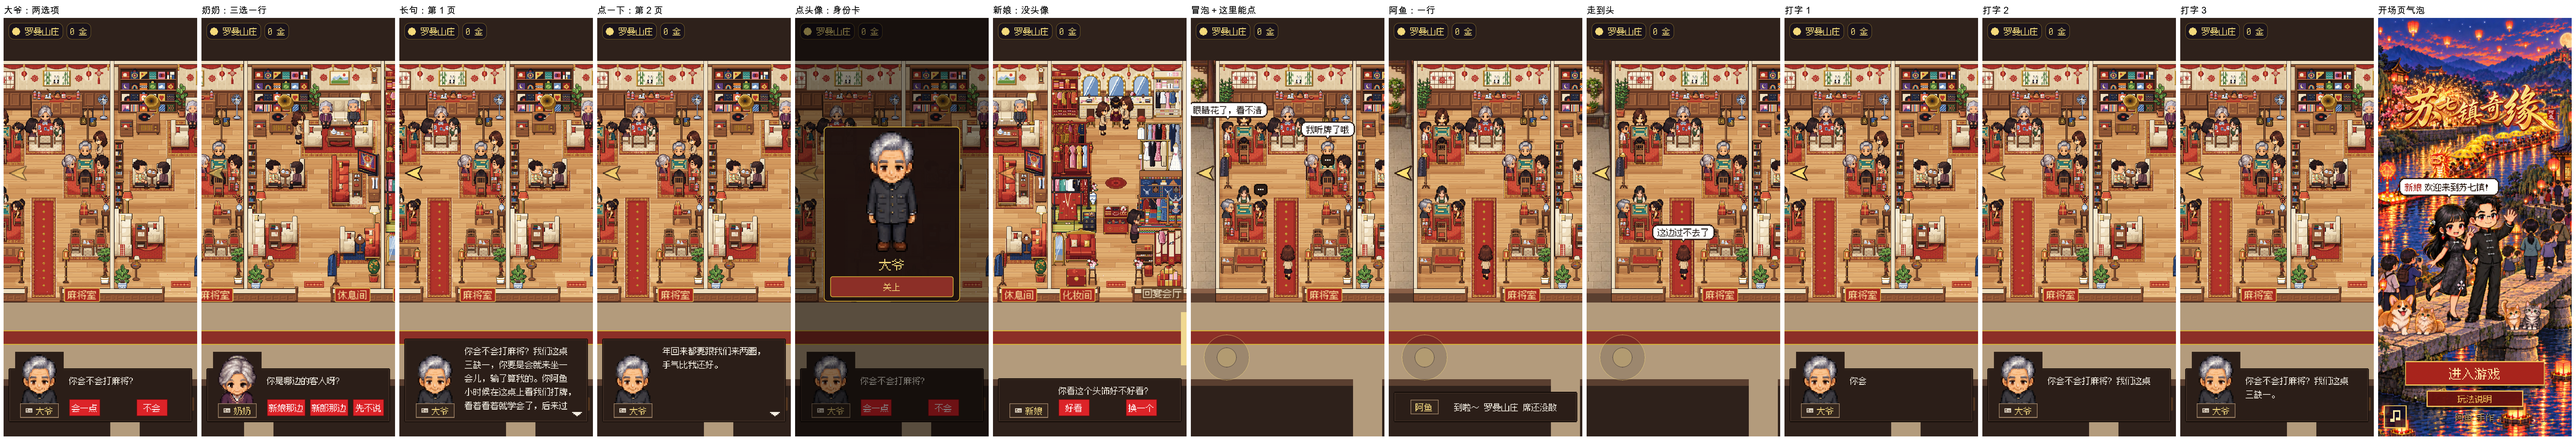
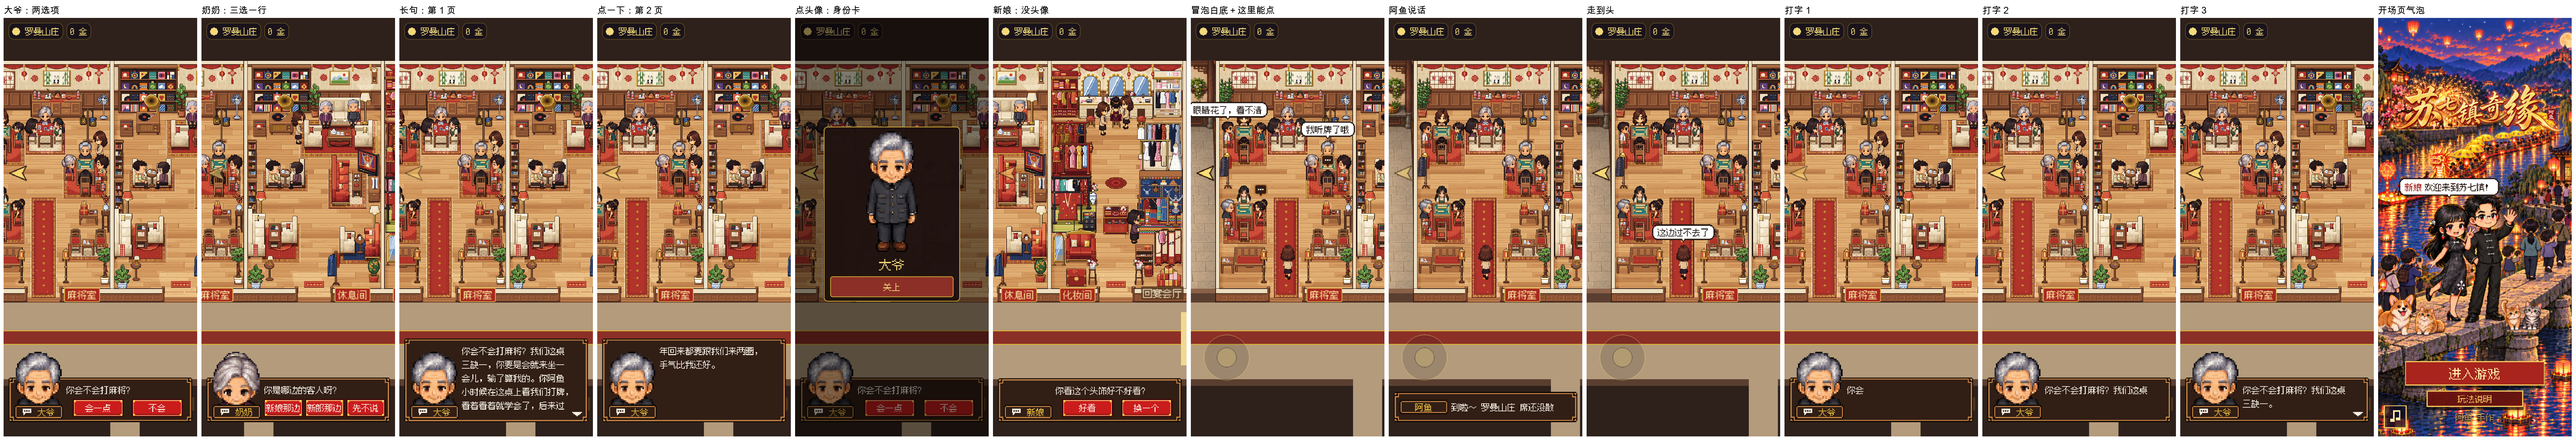
对话框照阿鱼的定稿图一模一样：金棕双线框带角花、头像不垫底放大顶出框、名字牌白色对话泡、红按钮亮边金钉一样宽铺满一行
- scripts/ui/dialog_skin.gd：box_frame / plate_frame / choice_frame / _talk_icon 照定稿图用代码画（图上的线不对格子，切出来会糊），颜色从图里取；
  头像放大 4 倍不垫底；按钮一样宽，奶奶三个四字选项时收紧间距（字号不降）；去掉卡片图标
- 回执/对话框B铺开-回执.md 写第四轮；定稿图-对照.png、定稿图-各种情况-手机.png，总图重截；删作废的 照阿鱼的图-对照.png

diff --git a/godot/回执/对话框B铺开-回执.md b/godot/回执/对话框B铺开-回执.md
@@ -1,18 +1,36 @@
-# 冒泡和对话框：全游戏铺开（照阿鱼画的） · 回执
+# 冒泡和对话框：全游戏铺开（照阿鱼的定稿图） · 回执
 
 > 05，2026-10-04，ui-dialog 分支（合了 main 33a1aa7，第二轮前又合了 main 04da112）。01 H 派。阿鱼原话：「全游戏通用的角度你觉得那个合适？我看起来 B 最合适全局通用 不过布局可以换成这样，
 > 身份卡 只用 icon 放到名字前就行了，点击头像就可以展开；NPC 的话放在对话框大部分，超长可以点翻页；最后一行放选择 btn，通用一行展示完成。其他 npc 的小气泡也用同样的配色」
 > 布局图：`docs/参考图/对话框布局-阿鱼10-04.png`。上一步三种样子的回执：`对话框三种样子-回执.md`。不合 main、不出码。
 
-## 结论（第三轮，照阿鱼画的一模一样）
+## 结论（第四轮，照阿鱼的定稿图一模一样）
 
-01 10/4 更正：先前把「B」当成了米白配色、让我留米色，阿鱼要的是**他画的那张图一模一样**。阿鱼回话：冒泡「白底，注意像素风」。现在全游戏是：
-- **对话框**：深褐底、白字；头像**不加框**，垫一块跟框同色的深褐底，大大地顶出框上沿、占左边；名字牌深褐底、浅褐描边、黄字，压在头像下沿，名字前一个卡片小图标；点头像或名字牌开身份卡；话占右边大部分，一屏放不下点一下翻页（右下白色小三角）；最后一行红按钮、白字，**照图按字宽排**（不平分一行），从话的左边起，中间空照图（两个时空约 100，挤的时候收到 8），一行排完；按钮最窄 88、高 48（01 的底线：能点的范围宽 ≥88、高 ≥44）；没头像（新娘、阿鱼）名字牌在左边、不放图
-- **头顶冒泡、走到头气泡、开场页角色气泡**：白底黑字、两格粗的深褐像素描边、台阶式圆角、带小尾巴
-- **「这里能点」提示泡**：跟对话框一样深褐底、白色小图标
-- **像素风**：框、名字牌、按钮、冒泡全是运行时一格一格生成的图，硬边整格、不插值，没有平滑圆角、渐变、半透明；头像按**整数倍**放大（不糊）；字是像素字 24 那档
-- 字一个个出，点一下先出完这一页、再点翻页、再点下一句；标点、右引号不放行首，左引号不留行尾
-- **说的话带“”**：07 在 map69 加（lounge_ui 的 line_label、main._say 有说话人的），冒泡、旁白不加；合 main 以后对话框里就带引号。这个分支上还没有，所以截图里的话没有引号
+阿鱼看了第三轮（照手画图做的）说「完全不对，我要的是这样」，给了定稿图 `docs/参考图/对话框定稿-阿鱼10-04.png`（main 48cfaa3）。01 H：照它一模一样做，不要自己拿主意。现在全游戏是：
+- **框**：深褐底 (49,30,21)；外一圈深色 (22,12,5)、里一圈金棕 (191,128,68) 的双线；四个角金线往里收出台阶，空出来的角上一个金色小 L 角花
+- **头像**：后面不垫任何底块，人直接从框上沿顶出来（头在框外、身子在框里），放大 4 倍（整数倍不糊），宽约 122、往上顶出约 73，跟定稿图比例一样
+- **名字牌**：深底、金棕双线边，前面一个白色像素对话泡（三个点），黄字 (242,194,62)；压在头像下面、框左下角，最窄 136
+- **话**：米白字 (250,242,228)，头像右边上半部分；“”由 07 在 map69 加，合 main 后就有
+- **按钮**：红底 (203,28,28)，深红描边 (62,3,3)、里一圈浅橘亮边 (248,168,112)、下面一截暗 (164,25,26)，四个角各一颗金色小方钉（左上亮、右下暗），米白字；**一样宽、铺满右边那一行**，中间空 23
+- **冒泡**白底黑字深褐描边（照旧）；「这里能点」提示泡换成框的深褐底、金棕边
+- **全部像素硬边**，没有平滑圆角、渐变、半透明
+
+**为什么是代码画、不是从图里切**：定稿图是像素画，但线不严格对格子（一格约 10.5 像素，按钮的亮边只有半格，边缘有发虚的过渡色），切成九宫格放到 540 宽会糊、会有半截像素。所以照它用代码一格一格画，**颜色全部从图里取**（上面括号里的就是量出来的），线宽、角花、钉照图的比例折成游戏像素。
+
+**尺寸都是照定稿图量的**（图上框 1702 像素宽，折成游戏里 512 宽，比例约 0.30）：框高约 123、头像顶出约 73、名字牌 136×40、话从框左 160 起、按钮从 179 起到离右沿 26、按钮高 48、中间空 23。
+
+## 第四轮：定稿图跟第三轮的区别、有一处要 01 定
+
+| 地方 | 第三轮（照手画图） | 第四轮（照定稿图） |
+| --- | --- | --- |
+| 框 | 深褐、一道稍亮的里线、小圆角 | 外深色、里金棕双线，四角台阶 + 金色 L 角花 |
+| 头像 | 垫一块跟框同色的底，放大 3 倍 | **不垫底**，放大 4 倍，头在框外、身子在框里 |
+| 名字牌 | 深褐、浅褐描边、卡片图标 | 深底金棕双线、**白色对话泡（三个点）**、黄字，最窄 136 |
+| 按钮 | 平红、深红描边、按字宽 | 描边 + 浅橘亮边 + 下截暗 + 四角金钉，**一样宽铺满一行**，中间空 23 |
+| 字号 | 24 | 24（定稿图字高 72 / 框宽 1702，折成 512 宽约 22，就是像素字 24 那档；上一档 36、下一档 12，01 说的「大一档」是 36，按图的比例不对） |
+
+**奶奶三个选项（要 01 定）**：照图的排法（按钮从 179 起、中间空 23、离右沿 26），三个一样宽每个 101，「新娘那边」要 108，放不下。我**没降字号**，而是先把这一行收紧：间距 23 → 6、左边跟话对齐（179 → 160）、右边 26 → 12，每个 109，放下了（截图 `定稿图-各种情况-手机.png` 第一张）。只有这一种挤的时候这样排，两个选项照图。
+01 说的是「放不下时按钮字先降一档」：像素字下一档是 **12**，只有现在一半大，手机上很难看清；所以先收紧了间距，**要严格按降字号我再改**（一行代码）。
 
 ## 第三轮改了什么（10/4，01 H 转阿鱼的准话）
 
@@ -80,7 +98,7 @@
 
 | 文件 | 改了什么 | 跟谁撞 |
 | --- | --- | --- |
-| `scripts/ui/dialog_skin.gd` | **第三轮**：照阿鱼的图换配色（深褐框白字、深色名字牌、红按钮、白底冒泡、深褐提示泡）、圆角收小、头像不加框按整数倍铺满、选项按字宽排（最窄 88）、分页时右引号不放行首左引号不留行尾。**第二轮**：框开着镜头往下让（`_lift_tick`，镜头 offset + 临时放宽 limit_bottom）、选项高 48、没头像一行的框收矮居中、阿鱼的框下沿钉回屏幕底、`_frame` 往上长。**第一轮**：选项按钮两边留白 10 → 6；只留 B 一套（A、C 拿掉）；对话框照阿鱼的排法重写：头像框（点了开身份卡）、名字牌带图标（点了也开）、分页、选项一行、量一行放不放得下（`choices_fit`）；冒泡、提示泡换 B 配色；开场页能用的气泡底子、小尖 | — |
+| `scripts/ui/dialog_skin.gd` | **第四轮**：照定稿图重画框（双线 + 角花，`box_frame`）、名字牌（`plate_frame`、白色对话泡 `_talk_icon`）、按钮（`choice_frame`：亮边、下截暗、四角金钉）、头像不垫底放大 4 倍、按钮一样宽铺满一行（奶奶那种挤的收紧间距）、去掉卡片图标。**第三轮**：照阿鱼的图换配色（深褐框白字、深色名字牌、红按钮、白底冒泡、深褐提示泡）、圆角收小、头像不加框按整数倍铺满、选项按字宽排（最窄 88）、分页时右引号不放行首左引号不留行尾。**第二轮**：框开着镜头往下让（`_lift_tick`，镜头 offset + 临时放宽 limit_bottom）、选项高 48、没头像一行的框收矮居中、阿鱼的框下沿钉回屏幕底、`_frame` 往上长。**第一轮**：选项按钮两边留白 10 → 6；只留 B 一套（A、C 拿掉）；对话框照阿鱼的排法重写：头像框（点了开身份卡）、名字牌带图标（点了也开）、分页、选项一行、量一行放不放得下（`choices_fit`）；冒泡、提示泡换 B 配色；开场页能用的气泡底子、小尖 | — |
 | `scripts/lounge_ui.gd`（07） | `choices` 类型 `VBoxContainer` → `BoxContainer`（选项改成一行）；`next_line` 多 2 行：有下一页先翻页 | 02 F 在 room01 动化妆间三位的冒泡和对话（makeup.json、lounge_life.gd）：我没改行为；合的时候 lounge_ui 这几行、lounge_life 画气泡那段会碰到同一个文件 |
 | `scripts/lounge_life.gd`（07） | 上一步已换画法、加同屏最多两个；这次没再动 | 同上 |
 | `scripts/title_screen.gd` | 开场页气泡底子、小尖换成同一套 | — |
@@ -106,9 +124,11 @@
 
 | 项 | 结果 |
 | --- | --- |
-| 第三轮（照阿鱼的图） | `对话框B铺开/照阿鱼的图-对照.png`（阿鱼画的、手机、长屏三张上下排）；两张总图重截（新配色）；`test_dialog_lift` 两种屏全过 |
+| 第四轮（照定稿图） | `对话框B铺开/定稿图-对照.png`（定稿图、手机、长屏三张上下排，大爷两选项）；`定稿图-各种情况-手机.png`（奶奶三选、长句两页、新娘、阿鱼、冒泡白底和提示泡、走到头）；两张总图、04 反馈图重截；`test_dialog_lift`、`test_no_readback`、`test_lounge_dialogue` 过 |
+| 第三轮（照手画图，已作废） | 对照图已删 |
 | 第二轮四条 | `test_dialog_lift` 两种屏全过；`对话框B铺开/04反馈-镜头上抬和一行框.png`（手机、长屏：大爷说话镜头抬、阿鱼一行居中） |
 | 截图（手机 540×960、长屏 1170×2532，第二轮重截） | `对话框B铺开/B铺开-手机540x960.png`、`B铺开-长屏1170x2532.png`：大爷两选项、奶奶三选项一行、长句第 1 页 / 第 2 页、点头像身份卡、新娘没头像、冒泡＋这里能点、阿鱼说话、走到头、打字三连拍、开场页气泡 |
+| 全套测试（第四轮） | **87 过、7 个没过**，没过的都是已知的：跟新规矩冲突的 4 个（等 03）+ test_map（没有 RESULT 行）+ `test_park_sign_check`、`test_signs68_check`（第 68 版验收，main 上还没对应代码）。全套第一遍时机器负载到 89，有 4 个超时（fixes_1003、hall55_walk、build57_walk、build60_walk），负载降下来后单独重跑全过（11 / 307 / 229 / 192 秒） |
 | 全套测试（第三轮） | 85 过；没过 9 个＝那 4 个跟新规矩冲突的 + test_map + `test_park_sign_check`、`test_signs68_check`（同第二轮，跟对话框无关）+ **`test_build57_walk`、`test_build60_walk` 超时**：跑的时候机器负载 25～50（别的项目、07 测第 69 版的 Godot 同时在跑）。我把这次的代码和上一个 commit 0d6144a 放在一起同时跑 build60_walk，25 分钟都没跑完，停下时进度一模一样（同样 539 行、都刚切到喷泉广场），所以是机器忙，不是对话框变慢了；第二轮负载低时 build60_walk 175 秒能过。请 03 在机器空的时候复测这两个 |
 | 头像不读图 | 量人物占多大照 `lm_index.json` 里离线量好的 front，不在游戏里读回图（`test_no_readback` 过） |
 | 全套测试（第二轮） | 87 过（多了新的 `test_dialog_lift`）；没过 7 个＝那 4 个跟新规矩冲突的 + test_map（没有 RESULT 行）+ `test_park_sign_check`、`test_signs68_check`（03 给第 68 版 drive68 写的验收，合 main 04da112 带进来；在没有这次改动的 HEAD 上单跑也不过，跟对话框无关） |
@@ -124,4 +144,4 @@
 
 ## 给阿鱼
 
-对话框照你画的那张改了：深褐底白字，头像不加框、大大地从框上面冒出来，名字牌是深色的、压在头像下面，名字前面有个小卡片图标，选项是红按钮排一行。头顶的冒泡是白底黑字、深色描边，圆圆的；能聊天的人头上那个小「…」提示是深褐的。全部是一格一格的像素边，头像按整数倍放大，不会糊。人说的话加引号这件事 07 在做，合到一起以后对话框里就会带“”。对照图在 `对话框B铺开/照阿鱼的图-对照.png`。
+对话框照你给的定稿图重新做了：深褐底，金棕色双线边，四个角带小角花；头像后面不垫底，人直接从框上面冒出来；名字牌前面是白色的小对话泡，名字黄字；按钮是红的，带亮边和四个角的金钉，两个一样宽排满一行。颜色都是从你的图里取的，全是一格一格的像素边。奶奶有三个选项那句，三个按钮挨得紧一点才放得下。说的话加“”要等跟 07 那边合到一起。对照图在 `对话框B铺开/定稿图-对照.png`。
